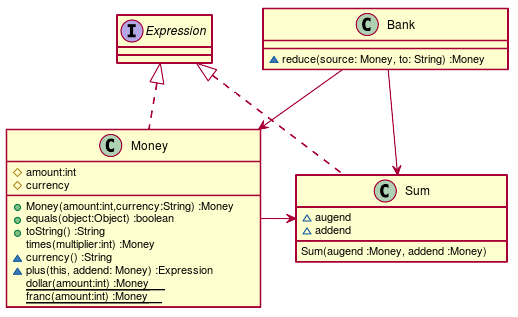
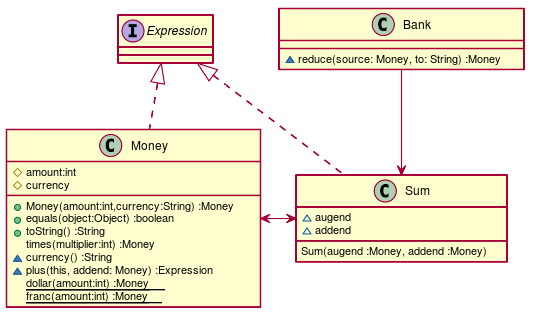
第１３章 実装を導くテスト Step10

diff --git a/src/main/java/tdd/money/Bank.java b/src/main/java/tdd/money/Bank.java
@@ -3,7 +3,6 @@ package tdd.money;
 class Bank {
     Money reduce(Expression source, String to) {
         Sum sum = (Sum) source;
-        int amount = sum.augend.amount + sum.addend.amount;
-        return new Money(amount, to);
+        return sum.reduce(to);
     }
 }

diff --git a/src/main/java/tdd/money/Sum.java b/src/main/java/tdd/money/Sum.java
@@ -7,4 +7,9 @@ class Sum implements Expression {
         this.augend = augend;
         this.addend = addend;
     }
+
+    Money reduce(String to) {
+        int amount = augend.amount + addend.amount;
+        return new Money(amount, to);
+    }
 }

diff --git a/docs/TDD.md b/docs/TDD.md
@@ -45,11 +45,11 @@
 ### クラス図
   
 
-![](./assets/0285dfa24ee25b18e00bb369b57da6820.png?0.5630687636295266)  
+![](./assets/0285dfa24ee25b18e00bb369b57da6820.png?0.43947453451334706)  
 ### シーケンス図
   
 
-![](./assets/0285dfa24ee25b18e00bb369b57da6821.png?0.4538497689814309)  
+![](./assets/0285dfa24ee25b18e00bb369b57da6821.png?0.025460270188461198)  
   
 ## コード
   

diff --git a/docs/src/TDD.md b/docs/src/TDD.md
@@ -69,20 +69,17 @@ class Sum {
 }
 Expression <|.. Money
 Expression <|.. Sum
-Money -> Sum
-Bank --> Money
+Money <-> Sum
 Bank --> Sum
 ```
 ### シーケンス図
 ```puml
 Bank -> Sum :reduce()
 activate Sum  
+  Sum -> Money :reduce()  
+  Sum <-- Money
   Bank <-- Sum  
 deactivate Sum
-Bank -> Money :reduce()
-activate Money
-  Bank <-- Money
-deactivate Money
 ```
 
 ## コード
